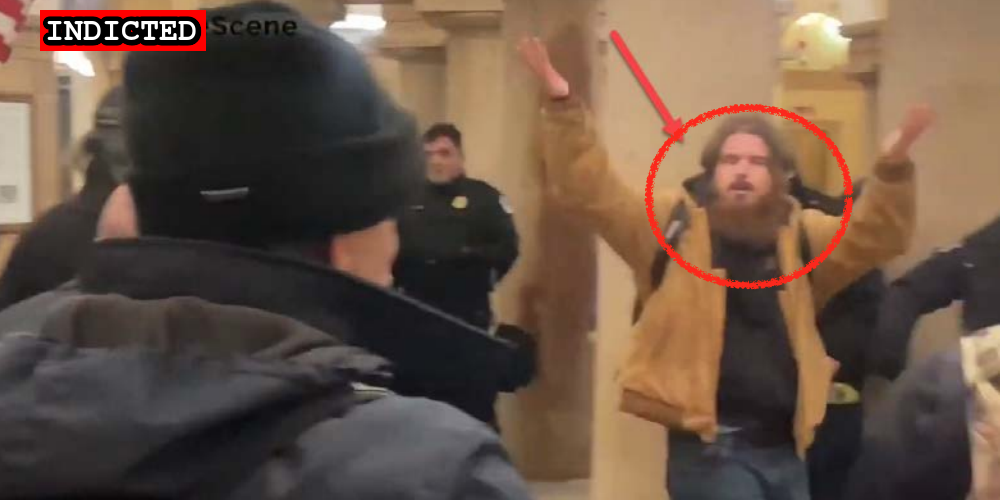
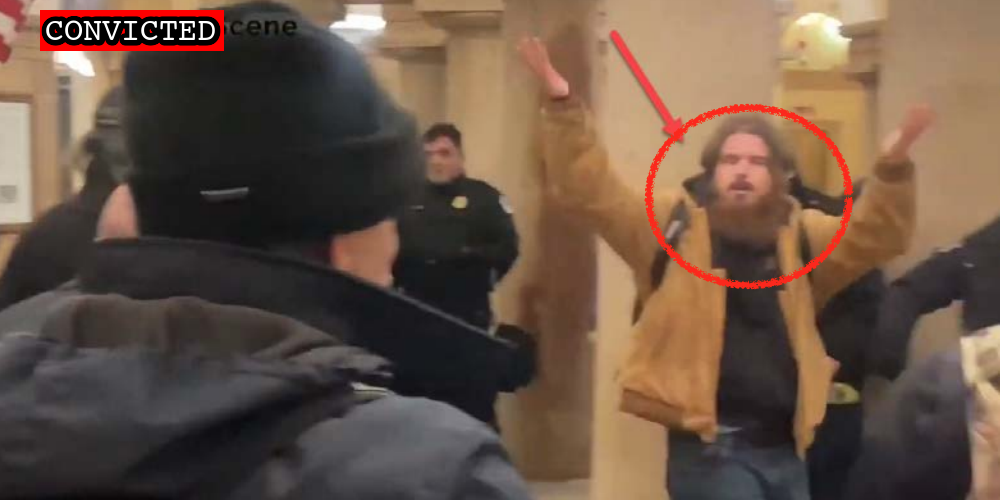
Andries conviction

Changed region(s): [[0.031, 0.0, 0.248, 0.12]]

diff --git a/commands/suspect-missing.ts b/commands/suspect-missing.ts
@@ -80,7 +80,7 @@ const unpublished = async () => {
     info("Missing Sentencing Date");
     for (const suspect of suspects) {
       const { convicted, sentencing } = suspect;
-      if (convicted && isNull(sentencing)) {
+      if (convicted && !sentencing) {
         console.log(suspect.name);
       }
     }

diff --git a/docs/_suspects/john-andries.md b/docs/_suspects/john-andries.md
@@ -4,15 +4,17 @@ lastName: Andries
 hashtag: JohnAndries
 aka:
 residence: Maryland
-status: Indicted
+status: Convicted
 date: 2021-01-28
 charged: 2021-01-28
 indicted: 2021-05-26
-convicted:
+convicted: 2022-08-23
+acquitted:
 sentenced:
 dismissed:
 deceased:
 plea_hearing: 2022-08-23
+trial_date:
 sentencing:
 age: 35
 occupation: U.S. Military (former)
@@ -34,6 +36,10 @@ published: true
 caseNumber: 1:21-cr-93
 videos:
 charges:
+  - code: 18 USC § 1512(c)(2)
+    title: Obstruction of an Official Proceeding
+    url: https://www.law.cornell.edu/uscode/text/18/1512
+    felony: true
 sentence:
 ---
 
